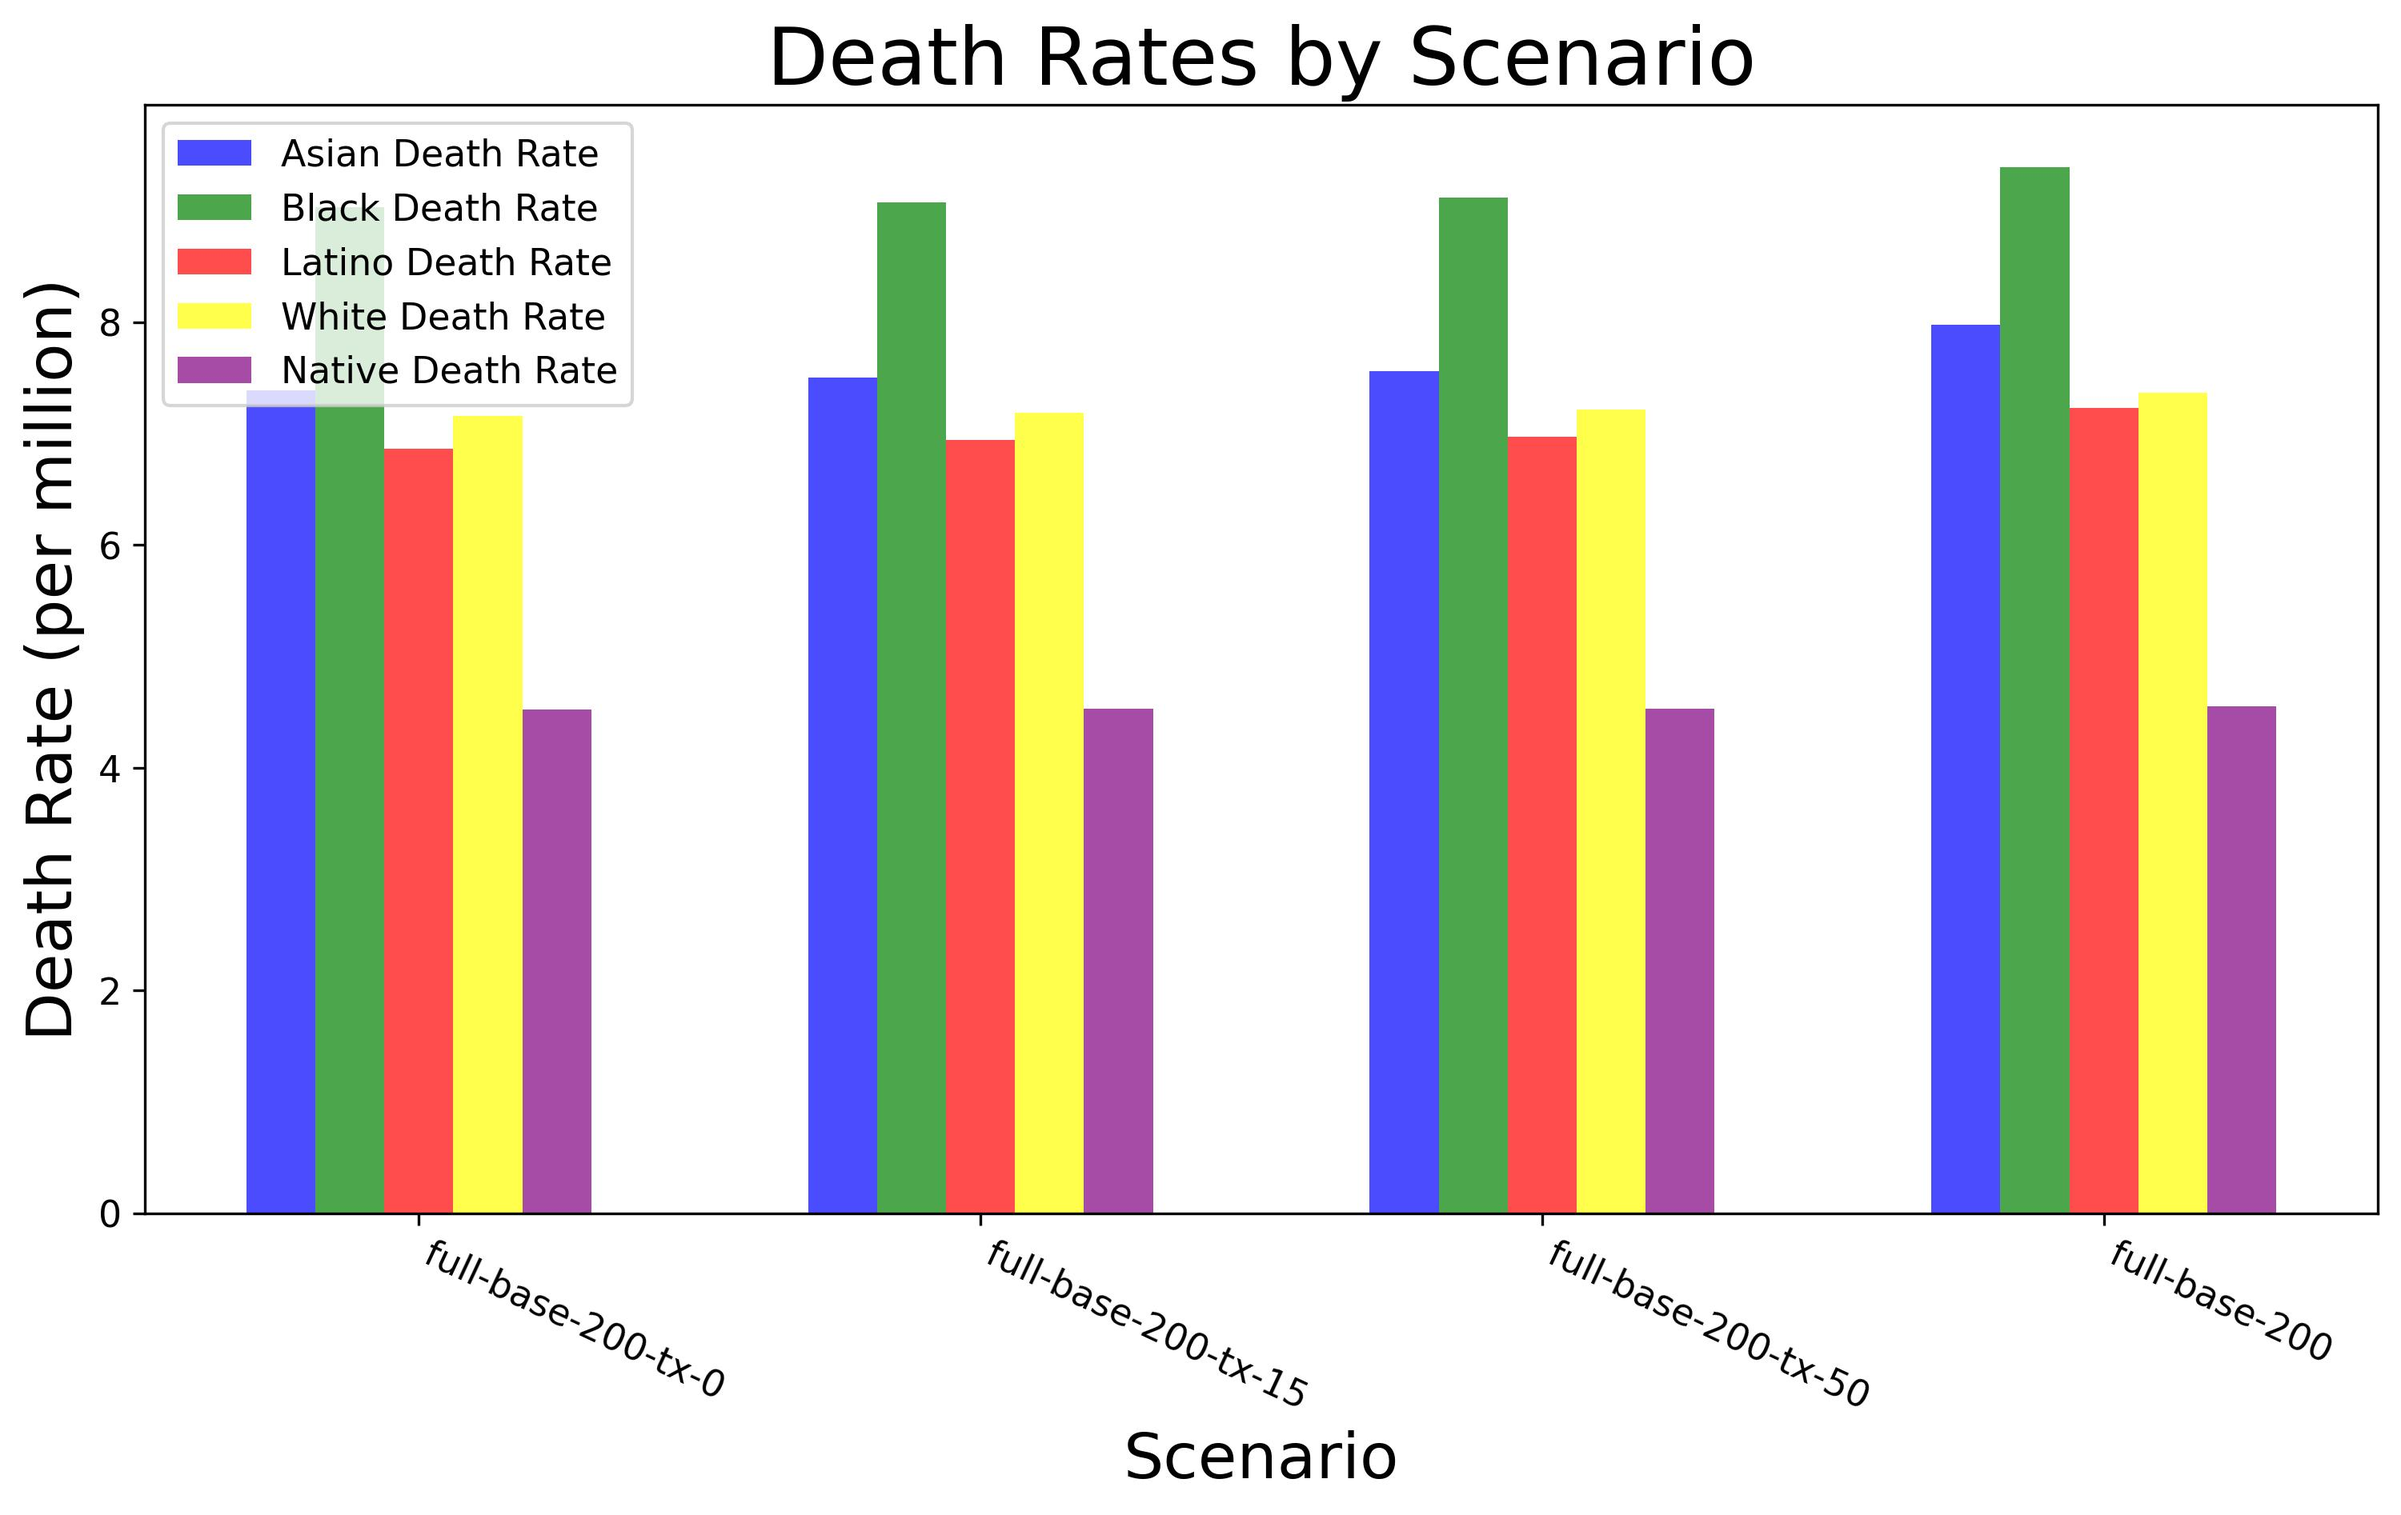
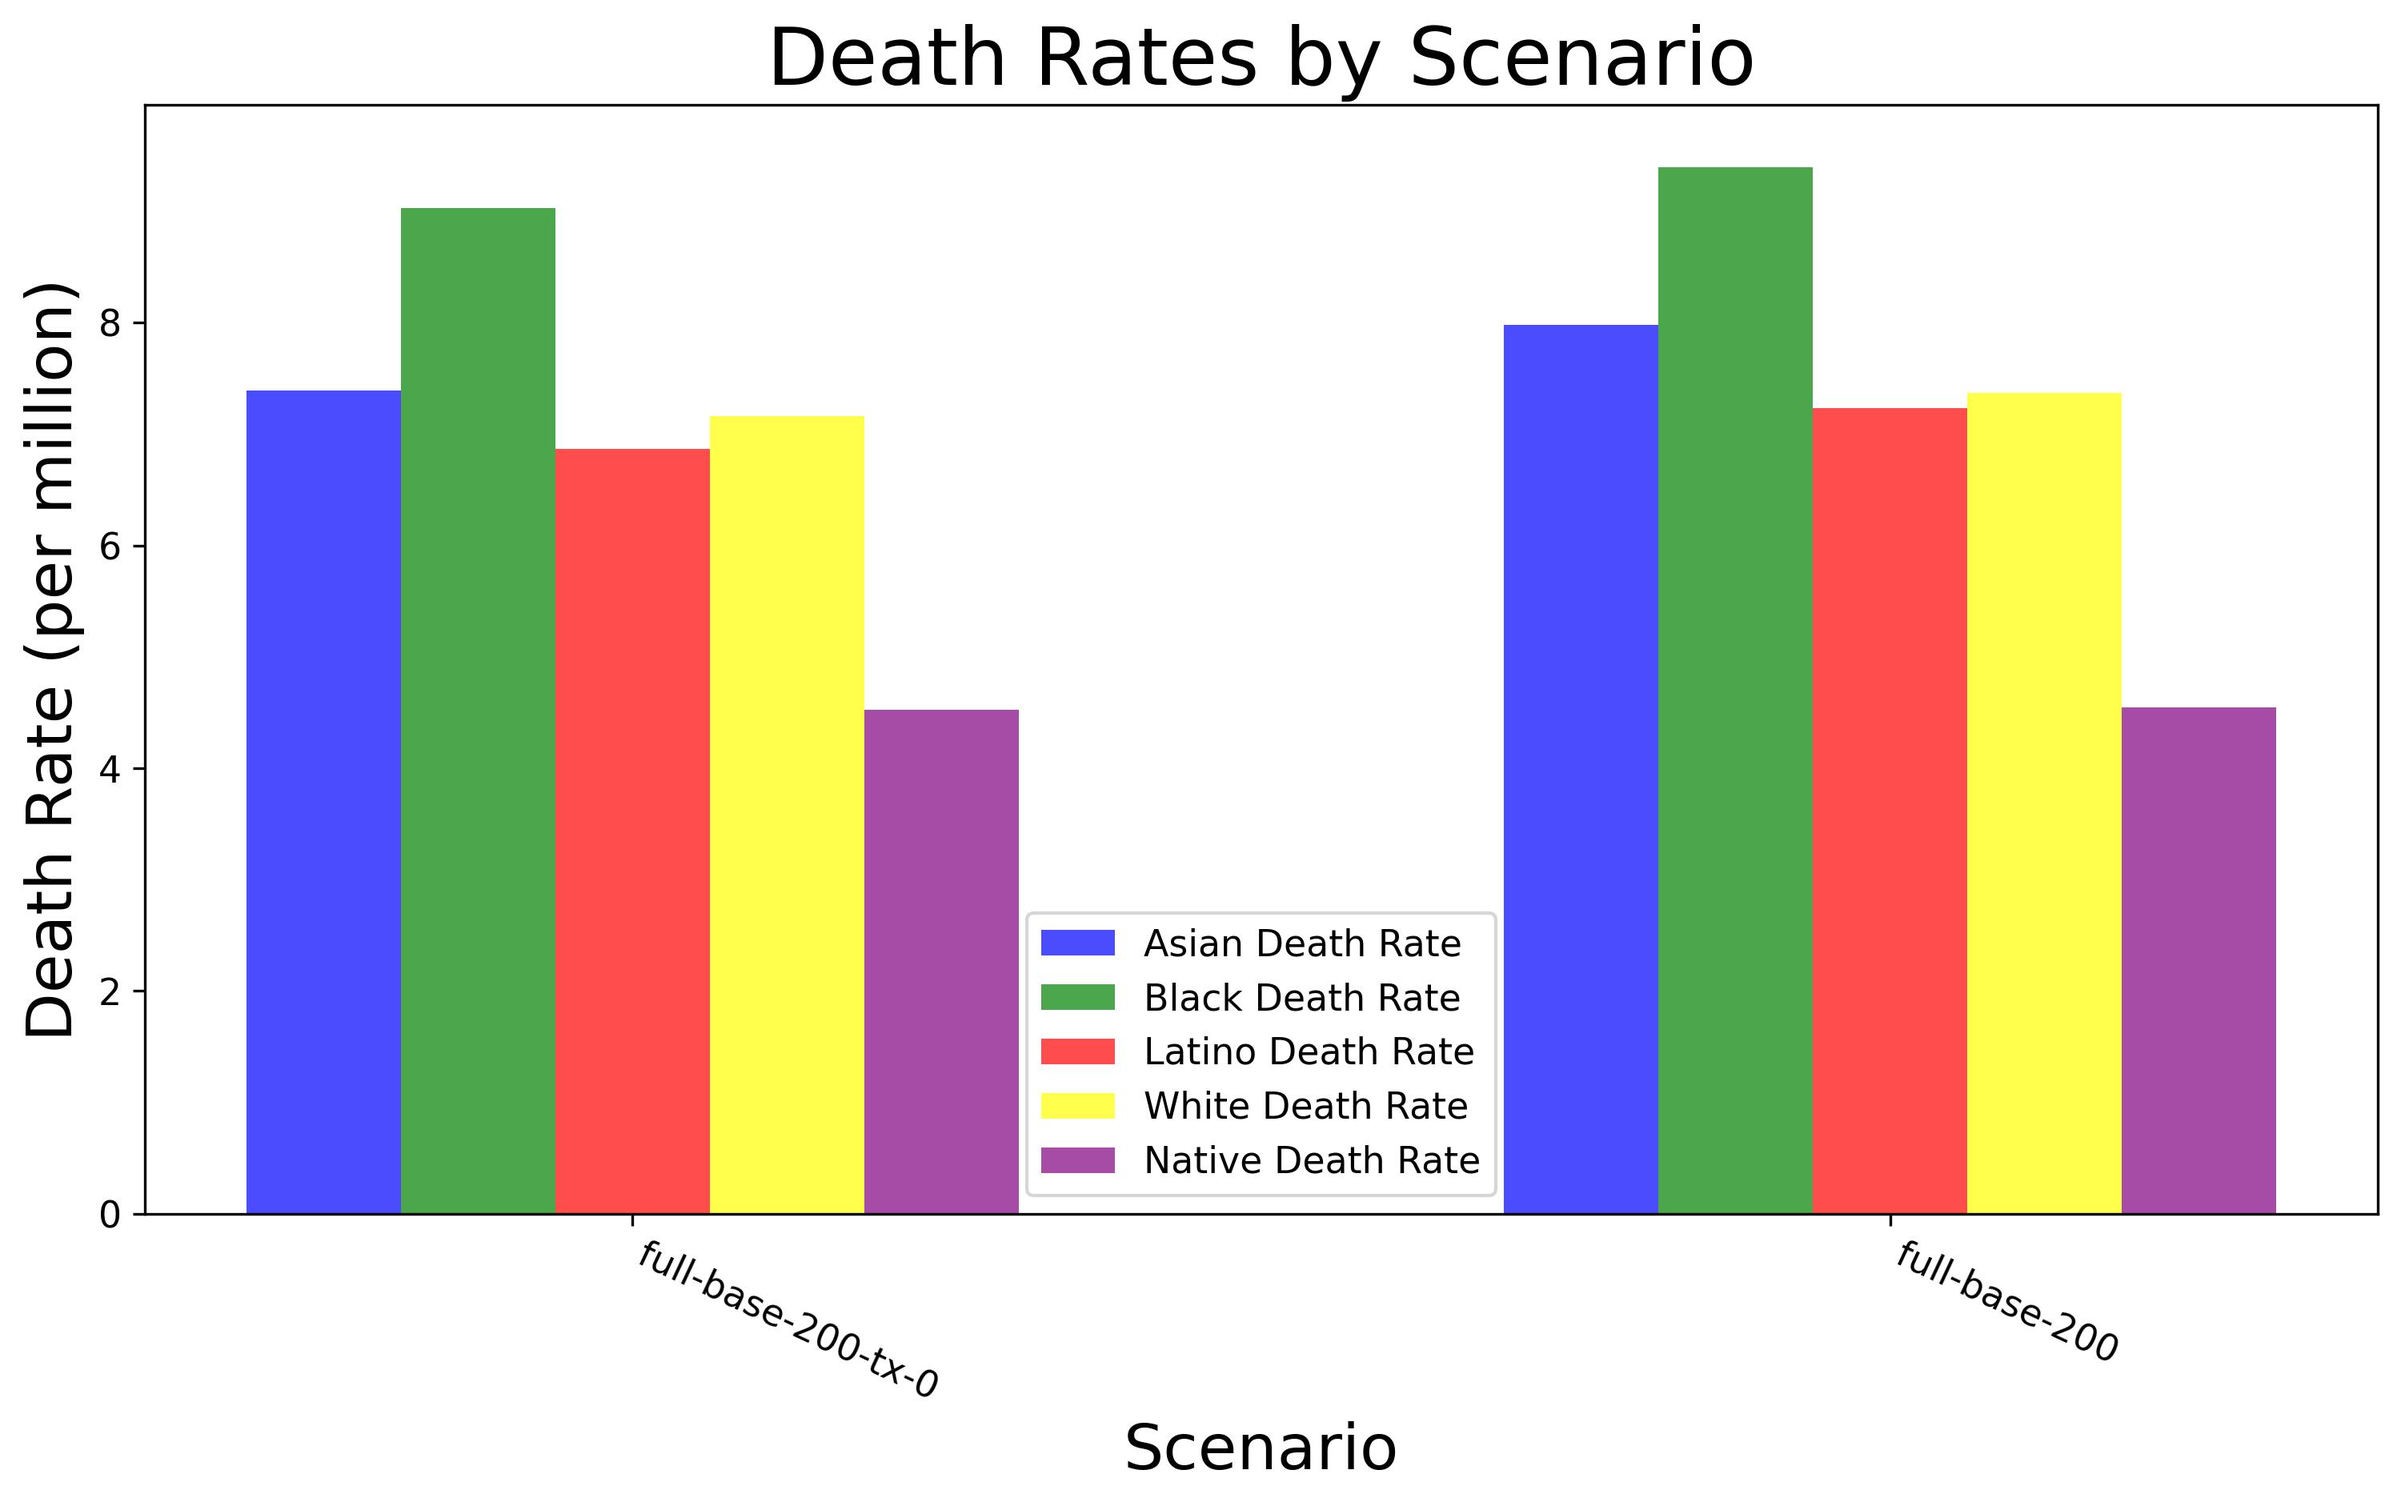
writing summary stats to csv

diff --git a/Downscaled/Plot_Output_ISRM.py b/Downscaled/Plot_Output_ISRM.py
@@ -10,12 +10,19 @@ import math
 from matplotlib.colors import LinearSegmentedColormap
 import seaborn as sns
 import sys
+import csv
 
 
 os.chdir('C:/Users/laure/Documents/Switch-USA-PG/')
 sys.path.append(os.path.abspath('C:/Users/laure/Documents/Switch-USA-PG/'))
 
 from MIP_AirPollution.Downscaled.settings import *
+
+#write an empty csv to save some summary stats to
+stats_file = 'MIP_AirPollution/Downscaled/stats.csv'
+with open(stats_file, mode='w', newline='') as file:
+    writer = csv.writer(file)
+    writer.writerow([])
 
 #rather than read in all data (very time consuming)
 #I'm going to selectively plot model/scenarios
@@ -121,12 +128,24 @@ def make_concentration_plots(models, scenarios, columns, states):
                                 dpi=300, bbox_inches='tight')
                     plt.savefig(f'MIP_results_comparison/AirPollution/{scenario}/{model}/ISRM_{year}_{column}_{model}_concentrationmap.jpg', format='jpg',
                                 dpi=300, bbox_inches='tight')
+                    
+                    #save population-weighted to stats.csv
+                    plot_temp['TotalPop'] = plot_temp['Black']+plot_temp['Asian']+plot_temp['WhiteNoLat']+plot_temp['Native']+plot_temp['Latino']
+                    weighted_avg = (plot_temp['TotalPM25'] * plot_temp['TotalPop']).sum() / plot_temp['TotalPop'].sum()
+                    with open(stats_file, mode='a', newline='') as file:
+                        writer = csv.writer(file)
+                        writer.writerow([scenario, model, year, weighted_avg])
+
 
 
 columns_to_plot = ['TotalPM25']
 models = ['GenX', 'SWITCH']
 scenarios = ['full-base-200', 'full-base-50', 'full-base-1000']
-make_concentration_plots(models = models, scenarios=scenarios, states=states)
+with open(stats_file, mode='a', newline='') as file:
+    writer = csv.writer(file)
+    writer.writerow(['Population-weighted average concentrations'])
+
+make_concentration_plots(models = models, scenarios=scenarios, columns = columns_to_plot, states=states)
 
 #%%
 def make_death_timeseries(models, scenarios):
@@ -169,7 +188,6 @@ def make_death_timeseries(models, scenarios):
             plt.savefig(f'MIP_results_comparison/AirPollution/{scenario}/{model}/ISRM_death_by_group.jpg', format='jpg',
                         dpi=300, bbox_inches='tight')
             
-
             death_rates = pd.DataFrame(plot_data[['Asiandeath', 'Blackdeath', 'Latinodeat', 'Nativedeat', 'WhiteNoL_1', 'Asian', 'Black', 'Latino', 'Native', 'WhiteNoLat', 'year', 'scenario', 'model']])
             death_rates = death_rates.groupby(['scenario','year', 'model']).sum().reset_index()
             death_rates['Asianrate'] = death_rates['Asiandeath']/death_rates['Asian']
@@ -202,10 +220,17 @@ def make_death_timeseries(models, scenarios):
             plt.savefig(f'MIP_AirPollution/Figures/Output/{scenario}/{model}/ISRM_deathrate_by_group.jpg', format='jpg',dpi=300, bbox_inches='tight')
             plt.savefig(f'MIP_results_comparison/AirPollution/{scenario}/{model}/ISRM_deathrate_by_group.jpg', format='jpg',
                         dpi=300, bbox_inches='tight')
+            
+            death_rates.to_csv(stats_file, mode='a', index=False, header=False)
 
+
+with open(stats_file, mode='a', newline='') as file:
+    writer = csv.writer(file)
+    writer.writerow([])
+    writer.writerow(['Total Deaths/DeathRates'])
 
 models = ['GenX', 'SWITCH']
-scenarios = ['full-base-200', 'full-current-policies']
+scenarios = ['full-base-200', 'full-current-policies', 'full-base-50', 'full-base-1000', 'full-base-200-tx-0', 'full-base-200-tx-50']
 make_death_timeseries(models, scenarios)
 
 #%%
@@ -326,7 +351,7 @@ compare_death_scenarios(models, scenarios, 'compare-escape-price')
 scenarios = ['full-base-200', 'full-current-policies']
 compare_death_scenarios(models, scenarios, 'current-base')
 
-scenarios = ['full-base-200-tx-0', 'full-base-200-tx-15', 'full-base-200-tx-50', 'full-base-200']
+scenarios = ['full-base-200-tx-0', 'full-base-200']
 compare_death_scenarios(models, scenarios, 'transmissions-constraint')
 
 scenarios = ['full-base-200-tx-0', 'full-base-200-tx-15', 'full-base-200-tx-50', 'full-base-200', 'full-base-50', 'full-base-1000', 'full-current-policies']
